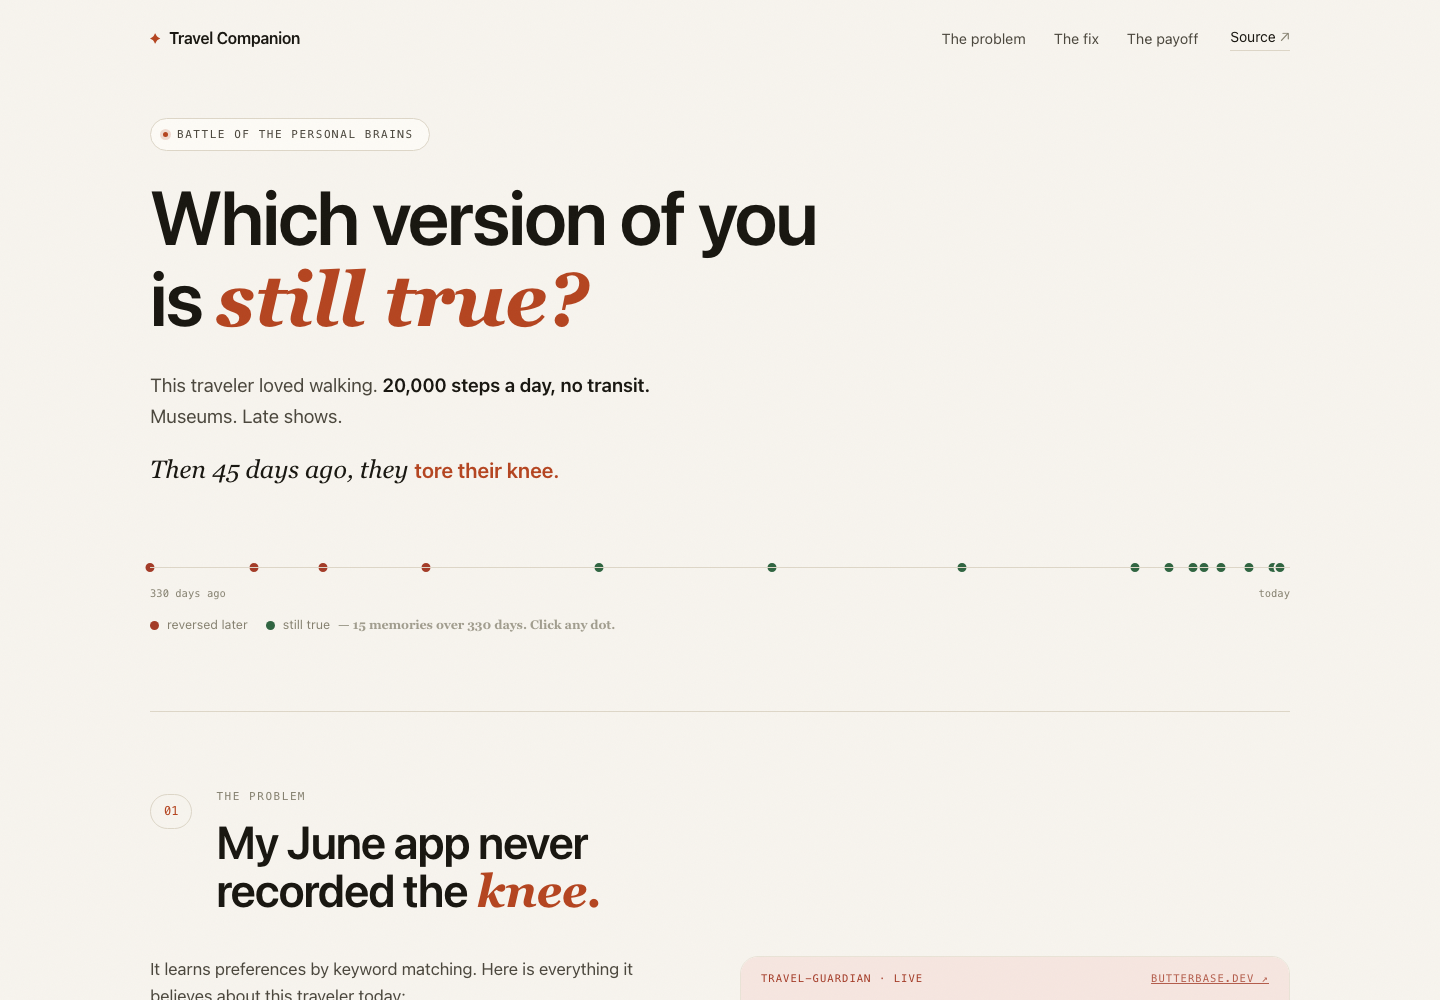
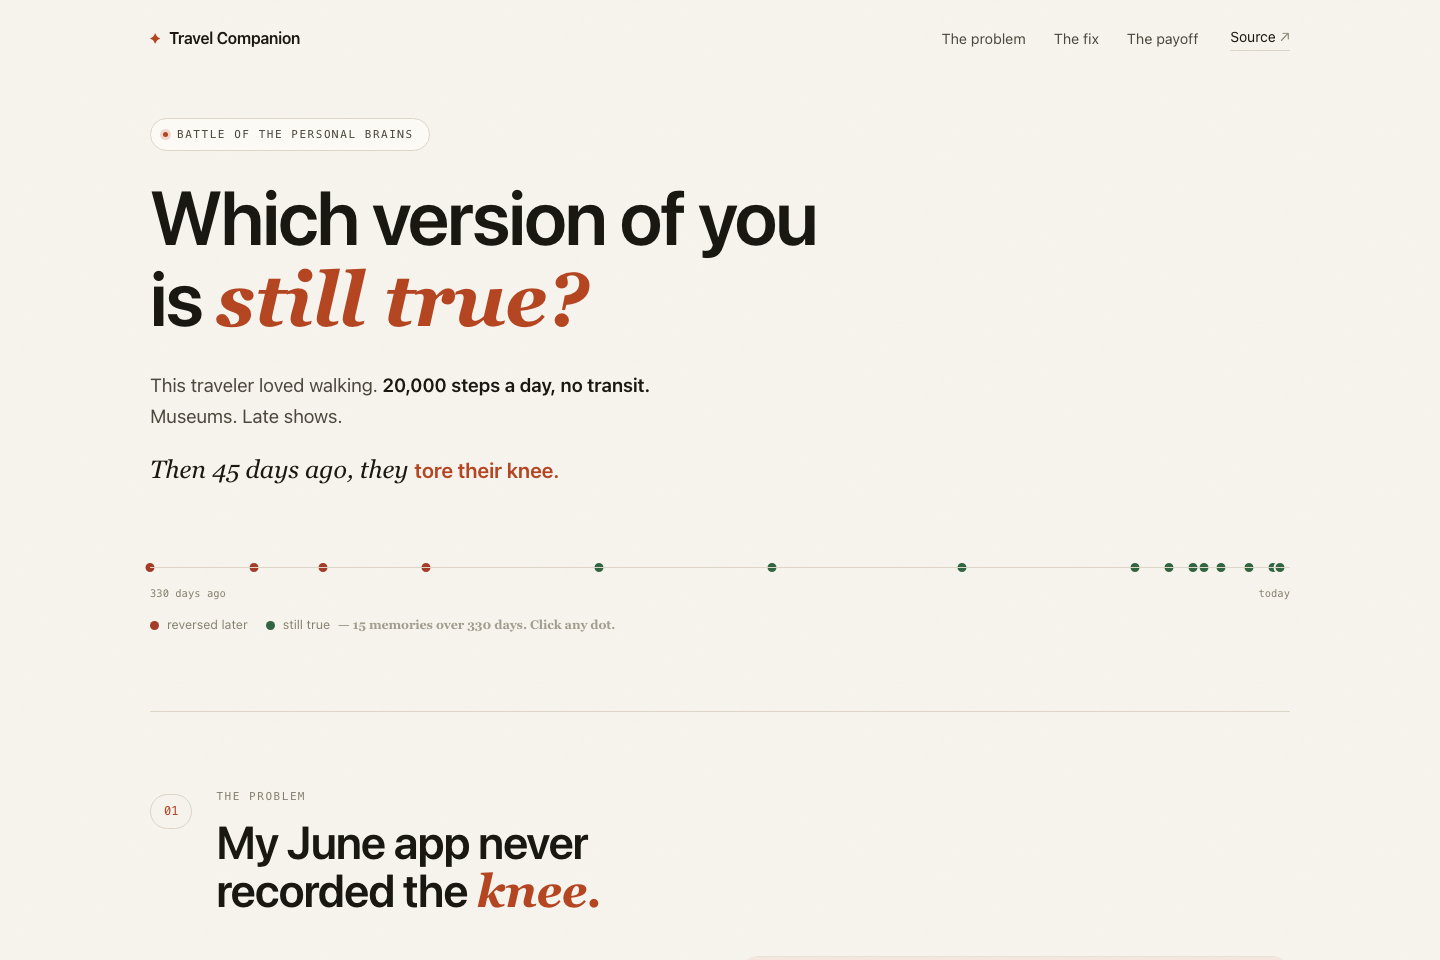
Add SUBMISSION.md — Devpost copy
Elevator pitch, the full About sections, tags, links, and which screenshots to
upload. Drops the blank anchor captures; full.png and 1-hero.png are the
usable ones.

diff --git a/SUBMISSION.md b/SUBMISSION.md
@@ -1,0 +1,181 @@
+# Devpost submission — copy-paste
+
+## Elevator pitch (163 chars)
+
+A travel agent that plans your day from your own history — and knows which of
+your preferences you've since abandoned. Old memories aren't deleted, they just lose.
+
+---
+
+## About the project
+
+```markdown
+## Inspiration
+
+In June I built a travel assistant with persistent memory. It's still deployed.
+Three months later I fed it a traveler who had changed their mind — and watched
+it confidently plan a day around preferences that person had abandoned.
+
+It told them to walk. They tore their knee 45 days ago.
+
+Most agent-memory work is about forgetting too much. This is the opposite
+failure, and nobody was working on it: an agent that remembers everything,
+weights it all equally, and acts on the version of you that no longer exists.
+
+## What it does
+
+Travel Companion plans a day from a traveler's own history, and knows which of
+their preferences still hold.
+
+The traveler has 15 memories spanning 330 days. Four of their decisions were
+later reversed:
+
+| They used to | Now |
+|---|---|
+| Walk 20k steps a day, no transit (330d) | Knee injury — 3mi cap, transit-adjacent (45d) |
+| Anchor every day on a museum (300d) | Stop routing me through museums (25d) |
+| Pre-book marquee attractions (280d) | Skip ticketed attractions (35d) |
+| Live music, late shows (250d) | Nothing scheduled past 9pm (20d) |
+
+Ask the old app to plan a day and it says "knowing you enjoy walking — here's a
+forty-minute walk, then a scenic walk, then a longer walk to the Mission."
+
+Ask Travel Companion and it says 2.7 miles, all transit-adjacent, no tickets,
+timed to golden hour, home before nine — and it cites the date of every
+constraint it honored.
+
+Then it checks the live web, because opening hours go stale in a way a knee
+injury doesn't, and writes corrections back into memory.
+
+**The demo is interactive.** Drag the decay window and watch the abandoned
+preferences physically fall out of the traveler's top 8, live:
+https://abhijitbetigeri.github.io/Travel-Companion/
+
+## How we built it
+
+**Cognee** — the memory. Each of the 15 memories is rendered as a *dated
+sentence* ("On 2025-10-26, the traveler recorded a decision: …") and cognified
+into a knowledge graph. That rendering matters: Cognee extracts the timeline
+out of the prose, so a JSON field called `ageDays` would have been invisible
+to it. Two datasets with different lifecycles — `self` (durable, supersedable)
+and `world` (expires fast).
+
+**Bright Data** — the live world, via their hosted remote MCP server. Used two
+ways: to build the `world` dataset up front, and for the agent to re-verify
+stale facts mid-conversation.
+
+**AWS Strands** — the agent loop. Bright Data's MCP tools plus three custom
+`@tool` functions: `recall_self`, `recall_world`, `remember`.
+
+**The ranking layer** — the part that's ours:
+
+```
+final_score = relevance × exp(−age_days / window_days)
+```
+
+Multiplicative, not a replacement. Relevance decides which memories are
+candidates; recency decides which of the relevant ones survive. Nothing is
+deleted — the abandoned preference is still in the graph and simply loses.
+
+## Challenges we ran into
+
+**Cognee stores the timeline but doesn't rank by it.** We assumed
+`SearchType.TEMPORAL` would solve supersession. It doesn't — it answers
+explicit range questions ("what happened before 2000?"), not "what still holds
+now". We measured it: TEMPORAL and GRAPH_COMPLETION returned near-identical
+itineraries, both routing through Alcatraz, one of them explicitly chasing the
+20,000-step goal. Cognify's half was perfect — dates *and* supersession
+language landed in the graph. Only the ranking was missing. So we built it.
+
+**Bedrock was blocked three different ways.** First `bedrock:InvokeModel`
+wasn't in the IAM policy. Then the Anthropic use-case form. Then Error 002 on
+*every* model — including Amazon's own Nova, which ruled out a model-specific
+gate and pointed at a brand-new account not yet enabled for Bedrock inference.
+Strands is model-agnostic, so `MODEL_PROVIDER` switches providers with no other
+change, and we kept building.
+
+**Credits don't map one-to-one onto bills.** There are four LLM bills in this
+architecture and three credits. Cognify runs its own inference, separate from
+the agent's, and self-hosted Cognee defaults to OpenAI with no documented
+Bedrock path — so self-hosting would have quietly billed a personal key. Using
+the hosted tenant is what put cognify on the Cognee credit.
+
+## Accomplishments that we're proud of
+
+**The comparison isn't a strawman.** `guardian.py` is a port of the June app's
+real memory code — its literal keyword table, its append-only `.push()` merge,
+its prompt assembly. The same 15 memories go through its own algorithm. And the
+app is still deployed, so you can check.
+
+**Its own extractor indicted it better than we could.** Running it produced
+`interests: [art, museum, history, nightlife]`, `mobility: [walking]` — three
+reversed preferences kept. And the knee injury missing entirely, because the
+traveler wrote "transit-adjacent" and the keyword table looks for "public
+transport". Substring matching never fired on the single most consequential
+fact about this person.
+
+**Reversed decisions in the top 8: flat 4, recency-weighted 0.** And that
+number needs no LLM to reproduce — it's arithmetic on dates.
+
+**The loop closes.** The agent's last tool call is `remember`. It writes back
+what the live web taught it, so the brain is more correct after the
+conversation than before it.
+
+## What we learned
+
+**Supersession is a retrieval problem, not a storage problem.** The instinct is
+to delete or overwrite the old preference. But you don't know a preference is
+dead until something contradicts it, and people revert — the knee heals.
+Ranking is reversible; deletion isn't.
+
+**"Which version of you" needs two different clocks.** Who you are supersedes
+slowly. What's true about the world expires in hours. Cognify both into one
+undifferentiated graph and the agent will cite a three-week-old scrape as
+present fact — the same bug, on the world side.
+
+**Read the vendor's retrieval semantics before designing around them.** A
+feature named "temporal" did something quite different from what we needed, and
+we only found out by measuring the output.
+
+## What's next for Travel Companion
+
+- **Learn the decay window instead of tuning it.** 45 days separates this
+  corpus cleanly because the knee is 45 days old and everything it superseded
+  is 250+. That won't generalize — it should be inferred from observed reversal
+  spacing.
+- **Per-memory-type windows.** A dietary restriction and a mood about museums
+  shouldn't decay at the same rate.
+- **Explicit supersession edges.** Cognify already extracts the language
+  ("supersedes the former walk-everywhere decision") into the graph. We rank
+  around it; we should read it.
+- **Close the loop on the world side too** — let the freshness gate schedule
+  its own re-scrapes rather than waiting to be asked.
+```
+
+---
+
+## Built with
+
+```
+cognee, bright-data, aws-strands, model-context-protocol, python,
+knowledge-graph, amazon-bedrock, anthropic-claude, rest-api, javascript,
+html, css, github-pages
+```
+
+## "Try it out" links
+
+```
+https://abhijitbetigeri.github.io/Travel-Companion/
+https://github.com/abhijitbetigeri/Travel-Companion
+https://travel-guardian.butterbase.dev
+```
+
+## Image gallery
+
+1. `docs/shots/full.png` — the whole argument in one image
+2. `docs/shots/1-hero.png` — hero, 3:2
+
+## Video demo
+
+Optional. 30 seconds: drag the slider from *No decay* to *45 days*, counter
+runs 4 → 0.
